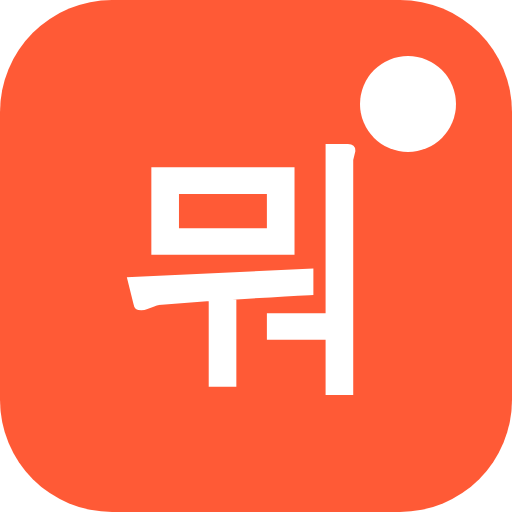
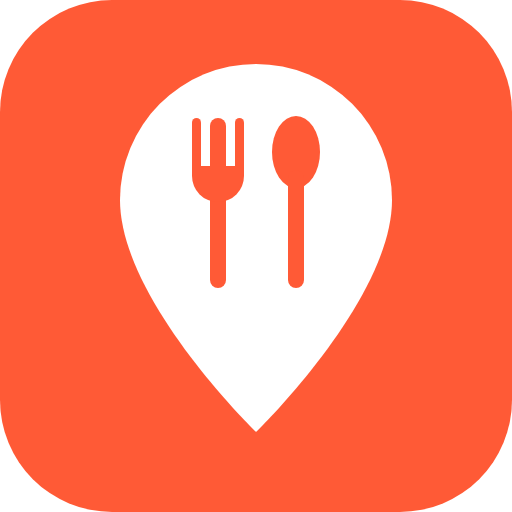
사이트 아이콘을 위치 핀 + 포크·숟가락으로 교체 (#7)
- favicon-32, apple-touch-icon(180, iOS용 꽉 찬 사각), icon-512 다시 그림
- 선명한 SVG 파비콘 추가, 브라우저 캐시를 피하려고 아이콘 주소에 ?v=2

Claude-Session: https://claude.ai/code/session_01UTdQkCoT5iMozhAwwBG6pv

Changed region(s): [[0.2188, 0.0938, 0.9062, 0.8438]]

diff --git a/guide/menu-ladder.html b/guide/menu-ladder.html
@@ -13,7 +13,8 @@
   <meta property="og:description" content="점심 메뉴를 사다리타기로 정해요. 후보를 넣고 사다리를 타면 카드가 하나씩 뒤집히며 당첨 메뉴가 나와요. 가입 없음, 근처 가게 찾기까지 무료." />
   <meta property="og:image" content="https://odaengmwo.com/og.png" />
   <meta name="color-scheme" content="light dark" />
-  <link rel="icon" type="image/png" sizes="32x32" href="/favicon-32.png" />
+  <link rel="icon" type="image/svg+xml" href="/favicon.svg?v=2" />
+  <link rel="icon" type="image/png" sizes="32x32" href="/favicon-32.png?v=2" />
   <script type="application/ld+json">{"@context":"https://schema.org","@graph":[{"@type":"Article","headline":"메뉴 사다리타기, 점심 메뉴 사다리 게임 무료","description":"점심 메뉴를 사다리타기로 정해요. 후보를 넣고 사다리를 타면 카드가 하나씩 뒤집히며 당첨 메뉴가 나와요. 가입 없음, 근처 가게 찾기까지 무료.","inLanguage":"ko","mainEntityOfPage":"https://odaengmwo.com/guide/menu-ladder.html","image":"https://odaengmwo.com/og.png","datePublished":"2026-10-10","dateModified":"2026-10-10","author":{"@type":"Organization","name":"오땡뭐!","url":"https://odaengmwo.com/","logo":"https://odaengmwo.com/icon-512.png"},"publisher":{"@type":"Organization","name":"오땡뭐!","url":"https://odaengmwo.com/","logo":"https://odaengmwo.com/icon-512.png"}},{"@type":"BreadcrumbList","itemListElement":[{"@type":"ListItem","position":1,"name":"오땡뭐!","item":"https://odaengmwo.com/"},{"@type":"ListItem","position":2,"name":"메뉴 고민 해결 글","item":"https://odaengmwo.com/guide/"},{"@type":"ListItem","position":3,"name":"메뉴 사다리타기, 점심 메뉴 사다리 게임 무료","item":"https://odaengmwo.com/guide/menu-ladder.html"}]},{"@type":"FAQPage","mainEntity":[{"@type":"Question","name":"사다리타기는 무료인가요?","acceptedAnswer":{"@type":"Answer","text":"네, 무료예요. 가입이나 설치 없이 휴대폰과 PC 브라우저에서 바로 할 수 있어요."}},{"@type":"Question","name":"몇 명까지 할 수 있나요?","acceptedAnswer":{"@type":"Answer","text":"후보는 2개부터 8개까지 넣을 수 있어요. 사람 수가 아니라 후보 수 기준이에요."}},{"@type":"Question","name":"결과를 단톡방에 보낼 수 있나요?","acceptedAnswer":{"@type":"Answer","text":"네, 결과 카드의 공유하기를 누르면 휴대폰 공유 창이 열리거나, PC에서는 문구가 복사돼요."}}]}]}</script>
   <meta name="twitter:card" content="summary_large_image" />
   <link rel="alternate" type="application/rss+xml" title="오땡뭐! 메뉴 고민 해결 글" href="/rss.xml" />

diff --git a/guide/menu-vote.html b/guide/menu-vote.html
@@ -13,7 +13,8 @@
   <meta property="og:description" content="점심 메뉴 투표를 가입 없이 만들어 단톡방에 링크로 보내요. 친구들은 앱 없이 링크만 눌러 한 표씩 던지고, 투표하면 결과가 바로 보여요. 무료." />
   <meta property="og:image" content="https://odaengmwo.com/og.png" />
   <meta name="color-scheme" content="light dark" />
-  <link rel="icon" type="image/png" sizes="32x32" href="/favicon-32.png" />
+  <link rel="icon" type="image/svg+xml" href="/favicon.svg?v=2" />
+  <link rel="icon" type="image/png" sizes="32x32" href="/favicon-32.png?v=2" />
   <script type="application/ld+json">{"@context":"https://schema.org","@graph":[{"@type":"Article","headline":"점심 메뉴 투표 만들기, 단톡방에 링크로 바로 투표","description":"점심 메뉴 투표를 가입 없이 만들어 단톡방에 링크로 보내요. 친구들은 앱 없이 링크만 눌러 한 표씩 던지고, 투표하면 결과가 바로 보여요. 무료.","inLanguage":"ko","mainEntityOfPage":"https://odaengmwo.com/guide/menu-vote.html","image":"https://odaengmwo.com/og.png","datePublished":"2026-10-10","dateModified":"2026-10-10","author":{"@type":"Organization","name":"오땡뭐!","url":"https://odaengmwo.com/","logo":"https://odaengmwo.com/icon-512.png"},"publisher":{"@type":"Organization","name":"오땡뭐!","url":"https://odaengmwo.com/","logo":"https://odaengmwo.com/icon-512.png"}},{"@type":"BreadcrumbList","itemListElement":[{"@type":"ListItem","position":1,"name":"오땡뭐!","item":"https://odaengmwo.com/"},{"@type":"ListItem","position":2,"name":"메뉴 고민 해결 글","item":"https://odaengmwo.com/guide/"},{"@type":"ListItem","position":3,"name":"점심 메뉴 투표 만들기, 단톡방에 링크로 바로 투표","item":"https://odaengmwo.com/guide/menu-vote.html"}]},{"@type":"FAQPage","mainEntity":[{"@type":"Question","name":"투표 만들기는 무료인가요?","acceptedAnswer":{"@type":"Answer","text":"네, 무료예요. 만드는 사람도, 투표하는 사람도 가입이나 앱 설치가 필요 없어요."}},{"@type":"Question","name":"투표는 언제까지 할 수 있나요?","acceptedAnswer":{"@type":"Answer","text":"투표 링크는 만든 시점부터 24시간 동안 열려 있어요."}},{"@type":"Question","name":"후보는 몇 개까지 넣을 수 있나요?","acceptedAnswer":{"@type":"Answer","text":"2개부터 8개까지 넣을 수 있어요. 메뉴 이름도, 추천받은 가게도 후보가 될 수 있어요."}}]}]}</script>
   <meta name="twitter:card" content="summary_large_image" />
   <link rel="alternate" type="application/rss+xml" title="오땡뭐! 메뉴 고민 해결 글" href="/rss.xml" />

diff --git a/guide/menu-roulette.html b/guide/menu-roulette.html
@@ -13,7 +13,8 @@
   <meta property="og:description" content="점심 메뉴 돌림판을 가입 없이 바로 돌려요. 메뉴를 최대 8개 넣고 GO를 누르면 하나가 뽑히고, 뽑힌 메뉴의 내 근처 가게까지 찾아줘요. 무료." />
   <meta property="og:image" content="https://odaengmwo.com/og.png" />
   <meta name="color-scheme" content="light dark" />
-  <link rel="icon" type="image/png" sizes="32x32" href="/favicon-32.png" />
+  <link rel="icon" type="image/svg+xml" href="/favicon.svg?v=2" />
+  <link rel="icon" type="image/png" sizes="32x32" href="/favicon-32.png?v=2" />
   <script type="application/ld+json">{"@context":"https://schema.org","@graph":[{"@type":"Article","headline":"점심 메뉴 돌림판, 메뉴 룰렛 무료로 돌리기","description":"점심 메뉴 돌림판을 가입 없이 바로 돌려요. 메뉴를 최대 8개 넣고 GO를 누르면 하나가 뽑히고, 뽑힌 메뉴의 내 근처 가게까지 찾아줘요. 무료.","inLanguage":"ko","mainEntityOfPage":"https://odaengmwo.com/guide/menu-roulette.html","image":"https://odaengmwo.com/og.png","datePublished":"2026-10-10","dateModified":"2026-10-10","author":{"@type":"Organization","name":"오땡뭐!","url":"https://odaengmwo.com/","logo":"https://odaengmwo.com/icon-512.png"},"publisher":{"@type":"Organization","name":"오땡뭐!","url":"https://odaengmwo.com/","logo":"https://odaengmwo.com/icon-512.png"}},{"@type":"BreadcrumbList","itemListElement":[{"@type":"ListItem","position":1,"name":"오땡뭐!","item":"https://odaengmwo.com/"},{"@type":"ListItem","position":2,"name":"메뉴 고민 해결 글","item":"https://odaengmwo.com/guide/"},{"@type":"ListItem","position":3,"name":"점심 메뉴 돌림판, 메뉴 룰렛 무료로 돌리기","item":"https://odaengmwo.com/guide/menu-roulette.html"}]},{"@type":"FAQPage","mainEntity":[{"@type":"Question","name":"돌림판은 무료인가요?","acceptedAnswer":{"@type":"Answer","text":"네, 무료예요. 회원가입이나 앱 설치 없이 웹에서 바로 돌릴 수 있어요."}},{"@type":"Question","name":"후보는 몇 개까지 넣을 수 있나요?","acceptedAnswer":{"@type":"Answer","text":"최대 8개까지 넣을 수 있어요. 2개 이상이면 돌릴 수 있어요."}},{"@type":"Question","name":"결과는 정말 랜덤인가요?","acceptedAnswer":{"@type":"Answer","text":"네, 돌릴 때마다 무작위로 멈출 칸이 정해져요. 특정 메뉴가 더 잘 나오도록 만든 장치는 없어요."}}]}]}</script>
   <meta name="twitter:card" content="summary_large_image" />
   <link rel="alternate" type="application/rss+xml" title="오땡뭐! 메뉴 고민 해결 글" href="/rss.xml" />

diff --git a/guide/location.html b/guide/location.html
@@ -13,7 +13,8 @@
   <meta property="og:description" content="오땡뭐!에서 내 위치를 못 가져올 때 확인할 것들이에요. 휴대폰(아이폰·안드로이드), PC(Windows·맥), 크롬·엣지·사파리에서 위치를 허용하는 방법과 가장 쉬운 대안을 정리했어요." />
   <meta property="og:image" content="https://odaengmwo.com/og.png" />
   <meta name="color-scheme" content="light dark" />
-  <link rel="icon" type="image/png" sizes="32x32" href="/favicon-32.png" />
+  <link rel="icon" type="image/svg+xml" href="/favicon.svg?v=2" />
+  <link rel="icon" type="image/png" sizes="32x32" href="/favicon-32.png?v=2" />
   <script type="application/ld+json">{"@context":"https://schema.org","@graph":[{"@type":"Article","headline":"위치가 안 잡힐 때, PC·휴대폰에서 위치 켜는 법","description":"오땡뭐!에서 내 위치를 못 가져올 때 확인할 것들이에요. 휴대폰(아이폰·안드로이드), PC(Windows·맥), 크롬·엣지·사파리에서 위치를 허용하는 방법과 가장 쉬운 대안을 정리했어요.","inLanguage":"ko","mainEntityOfPage":"https://odaengmwo.com/guide/location.html","image":"https://odaengmwo.com/og.png","datePublished":"2026-10-06","dateModified":"2026-10-06","author":{"@type":"Organization","name":"오땡뭐!","url":"https://odaengmwo.com/","logo":"https://odaengmwo.com/icon-512.png"},"publisher":{"@type":"Organization","name":"오땡뭐!","url":"https://odaengmwo.com/","logo":"https://odaengmwo.com/icon-512.png"}},{"@type":"BreadcrumbList","itemListElement":[{"@type":"ListItem","position":1,"name":"오땡뭐!","item":"https://odaengmwo.com/"},{"@type":"ListItem","position":2,"name":"메뉴 고민 해결 글","item":"https://odaengmwo.com/guide/"},{"@type":"ListItem","position":3,"name":"위치가 안 잡힐 때, PC·휴대폰에서 위치 켜는 법","item":"https://odaengmwo.com/guide/location.html"}]}]}</script>
   <meta name="twitter:card" content="summary_large_image" />
   <link rel="alternate" type="application/rss+xml" title="오땡뭐! 메뉴 고민 해결 글" href="/rss.xml" />

diff --git a/guide/lunch-game.html b/guide/lunch-game.html
@@ -13,7 +13,8 @@
   <meta property="og:description" content="점심 메뉴를 못 정할 때 친구나 팀원과 사다리타기, 돌림판, 달리기 경주, 폭탄 돌리기로 공평하게 정하는 방법이에요. 무료, 가입 없음." />
   <meta property="og:image" content="https://odaengmwo.com/og.png" />
   <meta name="color-scheme" content="light dark" />
-  <link rel="icon" type="image/png" sizes="32x32" href="/favicon-32.png" />
+  <link rel="icon" type="image/svg+xml" href="/favicon.svg?v=2" />
+  <link rel="icon" type="image/png" sizes="32x32" href="/favicon-32.png?v=2" />
   <script type="application/ld+json">{"@context":"https://schema.org","@graph":[{"@type":"Article","headline":"점심 메뉴 정하기 게임, 사다리·돌림판으로 친구랑 정하기","description":"점심 메뉴를 못 정할 때 친구나 팀원과 사다리타기, 돌림판, 달리기 경주, 폭탄 돌리기로 공평하게 정하는 방법이에요. 무료, 가입 없음.","inLanguage":"ko","mainEntityOfPage":"https://odaengmwo.com/guide/lunch-game.html","image":"https://odaengmwo.com/og.png","datePublished":"2026-10-05","dateModified":"2026-10-05","author":{"@type":"Organization","name":"오땡뭐!","url":"https://odaengmwo.com/","logo":"https://odaengmwo.com/icon-512.png"},"publisher":{"@type":"Organization","name":"오땡뭐!","url":"https://odaengmwo.com/","logo":"https://odaengmwo.com/icon-512.png"}},{"@type":"BreadcrumbList","itemListElement":[{"@type":"ListItem","position":1,"name":"오땡뭐!","item":"https://odaengmwo.com/"},{"@type":"ListItem","position":2,"name":"메뉴 고민 해결 글","item":"https://odaengmwo.com/guide/"},{"@type":"ListItem","position":3,"name":"점심 메뉴 정하기 게임, 사다리·돌림판으로 친구랑 정하기","item":"https://odaengmwo.com/guide/lunch-game.html"}]}]}</script>
   <meta name="twitter:card" content="summary_large_image" />
   <link rel="alternate" type="application/rss+xml" title="오땡뭐! 메뉴 고민 해결 글" href="/rss.xml" />

diff --git a/guide/solo.html b/guide/solo.html
@@ -13,7 +13,8 @@
   <meta property="og:description" content="혼자 밥 먹을 때 부담 없는 혼밥 메뉴와 혼밥하기 좋은 가게를 고르는 요령, 내 주변 혼밥 가게를 찾는 방법이에요." />
   <meta property="og:image" content="https://odaengmwo.com/og.png" />
   <meta name="color-scheme" content="light dark" />
-  <link rel="icon" type="image/png" sizes="32x32" href="/favicon-32.png" />
+  <link rel="icon" type="image/svg+xml" href="/favicon.svg?v=2" />
+  <link rel="icon" type="image/png" sizes="32x32" href="/favicon-32.png?v=2" />
   <script type="application/ld+json">{"@context":"https://schema.org","@graph":[{"@type":"Article","headline":"혼밥 메뉴 추천, 혼자 먹기 편한 메뉴와 가게 고르는 법","description":"혼자 밥 먹을 때 부담 없는 혼밥 메뉴와 혼밥하기 좋은 가게를 고르는 요령, 내 주변 혼밥 가게를 찾는 방법이에요.","inLanguage":"ko","mainEntityOfPage":"https://odaengmwo.com/guide/solo.html","image":"https://odaengmwo.com/og.png","datePublished":"2026-10-06","dateModified":"2026-10-06","author":{"@type":"Organization","name":"오땡뭐!","url":"https://odaengmwo.com/","logo":"https://odaengmwo.com/icon-512.png"},"publisher":{"@type":"Organization","name":"오땡뭐!","url":"https://odaengmwo.com/","logo":"https://odaengmwo.com/icon-512.png"}},{"@type":"BreadcrumbList","itemListElement":[{"@type":"ListItem","position":1,"name":"오땡뭐!","item":"https://odaengmwo.com/"},{"@type":"ListItem","position":2,"name":"메뉴 고민 해결 글","item":"https://odaengmwo.com/guide/"},{"@type":"ListItem","position":3,"name":"혼밥 메뉴 추천, 혼자 먹기 편한 메뉴와 가게 고르는 법","item":"https://odaengmwo.com/guide/solo.html"}]}]}</script>
   <meta name="twitter:card" content="summary_large_image" />
   <link rel="alternate" type="application/rss+xml" title="오땡뭐! 메뉴 고민 해결 글" href="/rss.xml" />

diff --git a/guide/team-dinner.html b/guide/team-dinner.html
@@ -13,7 +13,8 @@
   <meta property="og:description" content="팀 점심이나 회식 메뉴를 정할 때 다들 만족하는 메뉴 고르는 요령과, 투표·게임으로 공평하게 정하는 방법이에요." />
   <meta property="og:image" content="https://odaengmwo.com/og.png" />
   <meta name="color-scheme" content="light dark" />
-  <link rel="icon" type="image/png" sizes="32x32" href="/favicon-32.png" />
+  <link rel="icon" type="image/svg+xml" href="/favicon.svg?v=2" />
+  <link rel="icon" type="image/png" sizes="32x32" href="/favicon-32.png?v=2" />
   <script type="application/ld+json">{"@context":"https://schema.org","@graph":[{"@type":"Article","headline":"회식 메뉴 정하기, 팀 점심·회식 장소 고르는 법","description":"팀 점심이나 회식 메뉴를 정할 때 다들 만족하는 메뉴 고르는 요령과, 투표·게임으로 공평하게 정하는 방법이에요.","inLanguage":"ko","mainEntityOfPage":"https://odaengmwo.com/guide/team-dinner.html","image":"https://odaengmwo.com/og.png","datePublished":"2026-10-06","dateModified":"2026-10-06","author":{"@type":"Organization","name":"오땡뭐!","url":"https://odaengmwo.com/","logo":"https://odaengmwo.com/icon-512.png"},"publisher":{"@type":"Organization","name":"오땡뭐!","url":"https://odaengmwo.com/","logo":"https://odaengmwo.com/icon-512.png"}},{"@type":"BreadcrumbList","itemListElement":[{"@type":"ListItem","position":1,"name":"오땡뭐!","item":"https://odaengmwo.com/"},{"@type":"ListItem","position":2,"name":"메뉴 고민 해결 글","item":"https://odaengmwo.com/guide/"},{"@type":"ListItem","position":3,"name":"회식 메뉴 정하기, 팀 점심·회식 장소 고르는 법","item":"https://odaengmwo.com/guide/team-dinner.html"}]}]}</script>
   <meta name="twitter:card" content="summary_large_image" />
   <link rel="alternate" type="application/rss+xml" title="오땡뭐! 메뉴 고민 해결 글" href="/rss.xml" />

diff --git a/guide/college-lunch.html b/guide/college-lunch.html
@@ -13,7 +13,8 @@
   <meta property="og:description" content="학식이 질릴 때 대학생이 부담 없이 고를 수 있는 점심 메뉴와 가격대, 친구들과 빨리 정하는 방법을 정리했어요." />
   <meta property="og:image" content="https://odaengmwo.com/og.png" />
   <meta name="color-scheme" content="light dark" />
-  <link rel="icon" type="image/png" sizes="32x32" href="/favicon-32.png" />
+  <link rel="icon" type="image/svg+xml" href="/favicon.svg?v=2" />
+  <link rel="icon" type="image/png" sizes="32x32" href="/favicon-32.png?v=2" />
   <script type="application/ld+json">{"@context":"https://schema.org","@graph":[{"@type":"Article","headline":"대학생 점심 메뉴 추천, 학식 질릴 때 고르는 법","description":"학식이 질릴 때 대학생이 부담 없이 고를 수 있는 점심 메뉴와 가격대, 친구들과 빨리 정하는 방법을 정리했어요.","inLanguage":"ko","mainEntityOfPage":"https://odaengmwo.com/guide/college-lunch.html","image":"https://odaengmwo.com/og.png","datePublished":"2026-10-05","dateModified":"2026-10-05","author":{"@type":"Organization","name":"오땡뭐!","url":"https://odaengmwo.com/","logo":"https://odaengmwo.com/icon-512.png"},"publisher":{"@type":"Organization","name":"오땡뭐!","url":"https://odaengmwo.com/","logo":"https://odaengmwo.com/icon-512.png"}},{"@type":"BreadcrumbList","itemListElement":[{"@type":"ListItem","position":1,"name":"오땡뭐!","item":"https://odaengmwo.com/"},{"@type":"ListItem","position":2,"name":"메뉴 고민 해결 글","item":"https://odaengmwo.com/guide/"},{"@type":"ListItem","position":3,"name":"대학생 점심 메뉴 추천, 학식 질릴 때 고르는 법","item":"https://odaengmwo.com/guide/college-lunch.html"}]}]}</script>
   <meta name="twitter:card" content="summary_large_image" />
   <link rel="alternate" type="application/rss+xml" title="오땡뭐! 메뉴 고민 해결 글" href="/rss.xml" />

diff --git a/guide/dinner.html b/guide/dinner.html
@@ -13,7 +13,8 @@
   <meta property="og:description" content="오늘 저녁 뭐 먹을지 못 정할 때 고르기 좋은 저녁 메뉴와 상황별 추천, 근처 가게를 바로 찾는 방법을 정리했어요." />
   <meta property="og:image" content="https://odaengmwo.com/og.png" />
   <meta name="color-scheme" content="light dark" />
-  <link rel="icon" type="image/png" sizes="32x32" href="/favicon-32.png" />
+  <link rel="icon" type="image/svg+xml" href="/favicon.svg?v=2" />
+  <link rel="icon" type="image/png" sizes="32x32" href="/favicon-32.png?v=2" />
   <script type="application/ld+json">{"@context":"https://schema.org","@graph":[{"@type":"Article","headline":"저녁 메뉴 추천, 오늘 저녁 뭐 먹지 고민 끝내는 법","description":"오늘 저녁 뭐 먹을지 못 정할 때 고르기 좋은 저녁 메뉴와 상황별 추천, 근처 가게를 바로 찾는 방법을 정리했어요.","inLanguage":"ko","mainEntityOfPage":"https://odaengmwo.com/guide/dinner.html","image":"https://odaengmwo.com/og.png","datePublished":"2026-10-06","dateModified":"2026-10-06","author":{"@type":"Organization","name":"오땡뭐!","url":"https://odaengmwo.com/","logo":"https://odaengmwo.com/icon-512.png"},"publisher":{"@type":"Organization","name":"오땡뭐!","url":"https://odaengmwo.com/","logo":"https://odaengmwo.com/icon-512.png"}},{"@type":"BreadcrumbList","itemListElement":[{"@type":"ListItem","position":1,"name":"오땡뭐!","item":"https://odaengmwo.com/"},{"@type":"ListItem","position":2,"name":"메뉴 고민 해결 글","item":"https://odaengmwo.com/guide/"},{"@type":"ListItem","position":3,"name":"저녁 메뉴 추천, 오늘 저녁 뭐 먹지 고민 끝내는 법","item":"https://odaengmwo.com/guide/dinner.html"}]}]}</script>
   <meta name="twitter:card" content="summary_large_image" />
   <link rel="alternate" type="application/rss+xml" title="오땡뭐! 메뉴 고민 해결 글" href="/rss.xml" />

diff --git a/guide/cheap-eats.html b/guide/cheap-eats.html
@@ -13,7 +13,8 @@
   <meta property="og:description" content="착한가격업소가 무엇인지, 어떤 기준으로 지정되는지, 내 주변 착한가격 식당을 무료로 찾는 방법을 알려드려요." />
   <meta property="og:image" content="https://odaengmwo.com/og.png" />
   <meta name="color-scheme" content="light dark" />
-  <link rel="icon" type="image/png" sizes="32x32" href="/favicon-32.png" />
+  <link rel="icon" type="image/svg+xml" href="/favicon.svg?v=2" />
+  <link rel="icon" type="image/png" sizes="32x32" href="/favicon-32.png?v=2" />
   <script type="application/ld+json">{"@context":"https://schema.org","@graph":[{"@type":"Article","headline":"착한가격업소란? 내 동네 가성비 식당 찾는 법","description":"착한가격업소가 무엇인지, 어떤 기준으로 지정되는지, 내 주변 착한가격 식당을 무료로 찾는 방법을 알려드려요.","inLanguage":"ko","mainEntityOfPage":"https://odaengmwo.com/guide/cheap-eats.html","image":"https://odaengmwo.com/og.png","datePublished":"2026-10-05","dateModified":"2026-10-05","author":{"@type":"Organization","name":"오땡뭐!","url":"https://odaengmwo.com/","logo":"https://odaengmwo.com/icon-512.png"},"publisher":{"@type":"Organization","name":"오땡뭐!","url":"https://odaengmwo.com/","logo":"https://odaengmwo.com/icon-512.png"}},{"@type":"BreadcrumbList","itemListElement":[{"@type":"ListItem","position":1,"name":"오땡뭐!","item":"https://odaengmwo.com/"},{"@type":"ListItem","position":2,"name":"메뉴 고민 해결 글","item":"https://odaengmwo.com/guide/"},{"@type":"ListItem","position":3,"name":"착한가격업소란? 내 동네 가성비 식당 찾는 법","item":"https://odaengmwo.com/guide/cheap-eats.html"}]}]}</script>
   <meta name="twitter:card" content="summary_large_image" />
   <link rel="alternate" type="application/rss+xml" title="오땡뭐! 메뉴 고민 해결 글" href="/rss.xml" />

diff --git a/guide/rainy-day.html b/guide/rainy-day.html
@@ -13,7 +13,8 @@
   <meta property="og:description" content="비 오는 날 생각나는 파전, 칼국수, 짬뽕 같은 메뉴와, 날씨에 맞춰 근처 가게를 골라주는 방법을 정리했어요." />
   <meta property="og:image" content="https://odaengmwo.com/og.png" />
   <meta name="color-scheme" content="light dark" />
-  <link rel="icon" type="image/png" sizes="32x32" href="/favicon-32.png" />
+  <link rel="icon" type="image/svg+xml" href="/favicon.svg?v=2" />
+  <link rel="icon" type="image/png" sizes="32x32" href="/favicon-32.png?v=2" />
   <script type="application/ld+json">{"@context":"https://schema.org","@graph":[{"@type":"Article","headline":"비 오는 날 음식 추천, 비 올 때 생각나는 메뉴","description":"비 오는 날 생각나는 파전, 칼국수, 짬뽕 같은 메뉴와, 날씨에 맞춰 근처 가게를 골라주는 방법을 정리했어요.","inLanguage":"ko","mainEntityOfPage":"https://odaengmwo.com/guide/rainy-day.html","image":"https://odaengmwo.com/og.png","datePublished":"2026-10-06","dateModified":"2026-10-06","author":{"@type":"Organization","name":"오땡뭐!","url":"https://odaengmwo.com/","logo":"https://odaengmwo.com/icon-512.png"},"publisher":{"@type":"Organization","name":"오땡뭐!","url":"https://odaengmwo.com/","logo":"https://odaengmwo.com/icon-512.png"}},{"@type":"BreadcrumbList","itemListElement":[{"@type":"ListItem","position":1,"name":"오땡뭐!","item":"https://odaengmwo.com/"},{"@type":"ListItem","position":2,"name":"메뉴 고민 해결 글","item":"https://odaengmwo.com/guide/"},{"@type":"ListItem","position":3,"name":"비 오는 날 음식 추천, 비 올 때 생각나는 메뉴","item":"https://odaengmwo.com/guide/rainy-day.html"}]}]}</script>
   <meta name="twitter:card" content="summary_large_image" />
   <link rel="alternate" type="application/rss+xml" title="오땡뭐! 메뉴 고민 해결 글" href="/rss.xml" />

diff --git a/guide/late-night.html b/guide/late-night.html
@@ -13,7 +13,8 @@
   <meta property="og:description" content="늦은 밤 출출할 때 고르기 좋은 야식 메뉴와, 근처 야식 가게를 바로 찾는 방법을 정리했어요." />
   <meta property="og:image" content="https://odaengmwo.com/og.png" />
   <meta name="color-scheme" content="light dark" />
-  <link rel="icon" type="image/png" sizes="32x32" href="/favicon-32.png" />
+  <link rel="icon" type="image/svg+xml" href="/favicon.svg?v=2" />
+  <link rel="icon" type="image/png" sizes="32x32" href="/favicon-32.png?v=2" />
   <script type="application/ld+json">{"@context":"https://schema.org","@graph":[{"@type":"Article","headline":"야식 메뉴 추천, 밤에 뭐 먹을지 고민될 때","description":"늦은 밤 출출할 때 고르기 좋은 야식 메뉴와, 근처 야식 가게를 바로 찾는 방법을 정리했어요.","inLanguage":"ko","mainEntityOfPage":"https://odaengmwo.com/guide/late-night.html","image":"https://odaengmwo.com/og.png","datePublished":"2026-10-06","dateModified":"2026-10-06","author":{"@type":"Organization","name":"오땡뭐!","url":"https://odaengmwo.com/","logo":"https://odaengmwo.com/icon-512.png"},"publisher":{"@type":"Organization","name":"오땡뭐!","url":"https://odaengmwo.com/","logo":"https://odaengmwo.com/icon-512.png"}},{"@type":"BreadcrumbList","itemListElement":[{"@type":"ListItem","position":1,"name":"오땡뭐!","item":"https://odaengmwo.com/"},{"@type":"ListItem","position":2,"name":"메뉴 고민 해결 글","item":"https://odaengmwo.com/guide/"},{"@type":"ListItem","position":3,"name":"야식 메뉴 추천, 밤에 뭐 먹을지 고민될 때","item":"https://odaengmwo.com/guide/late-night.html"}]}]}</script>
   <meta name="twitter:card" content="summary_large_image" />
   <link rel="alternate" type="application/rss+xml" title="오땡뭐! 메뉴 고민 해결 글" href="/rss.xml" />
